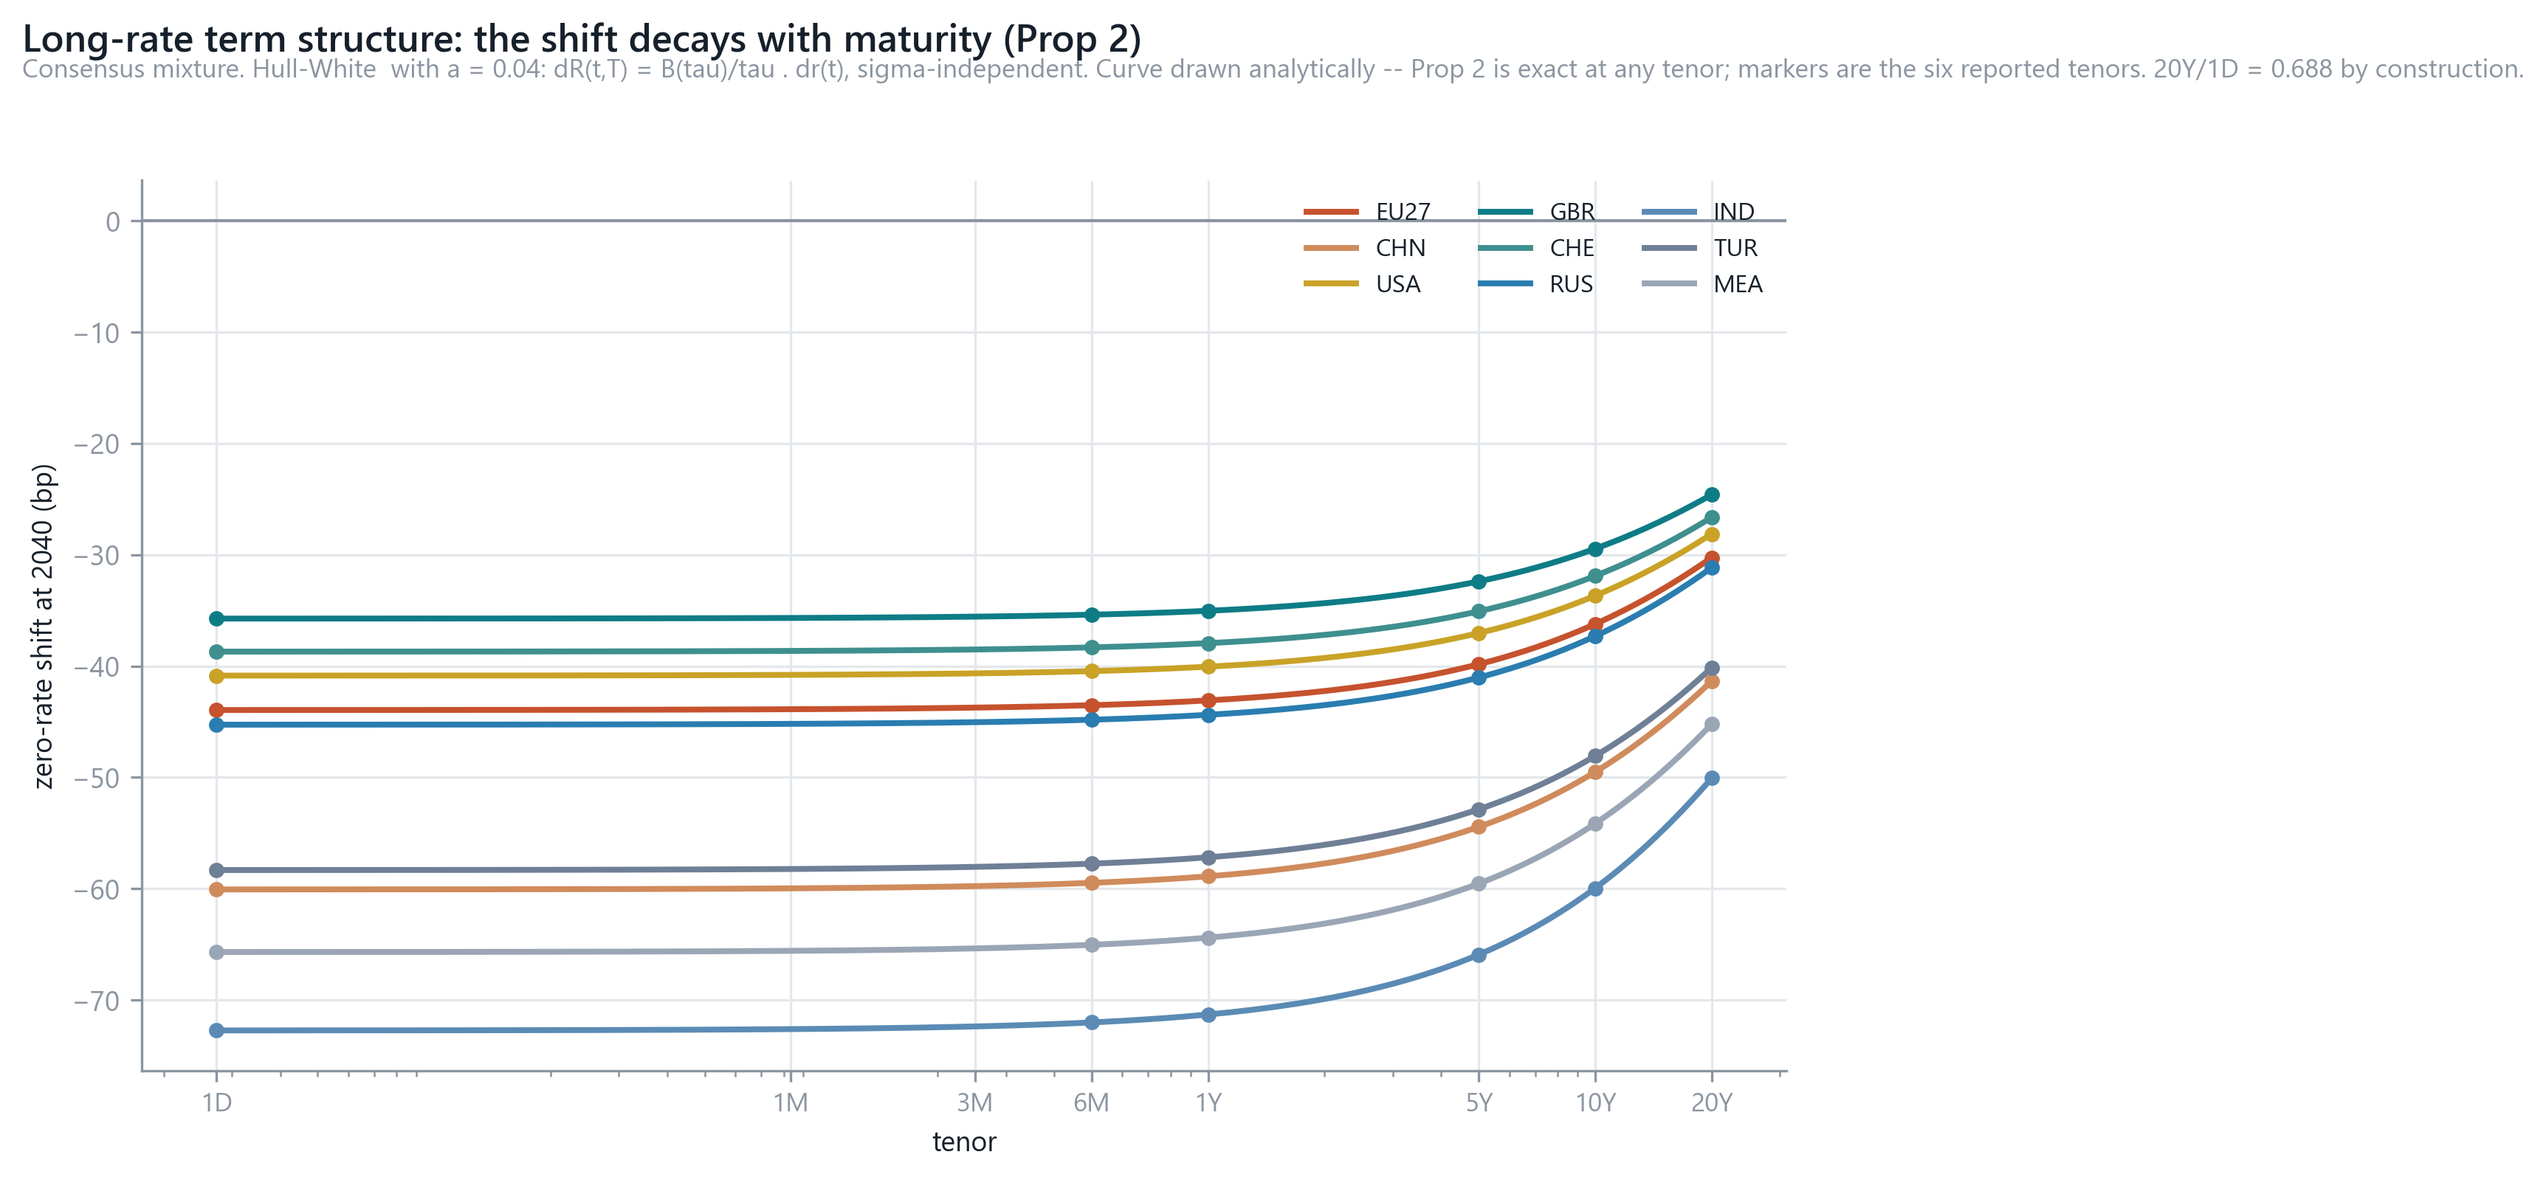
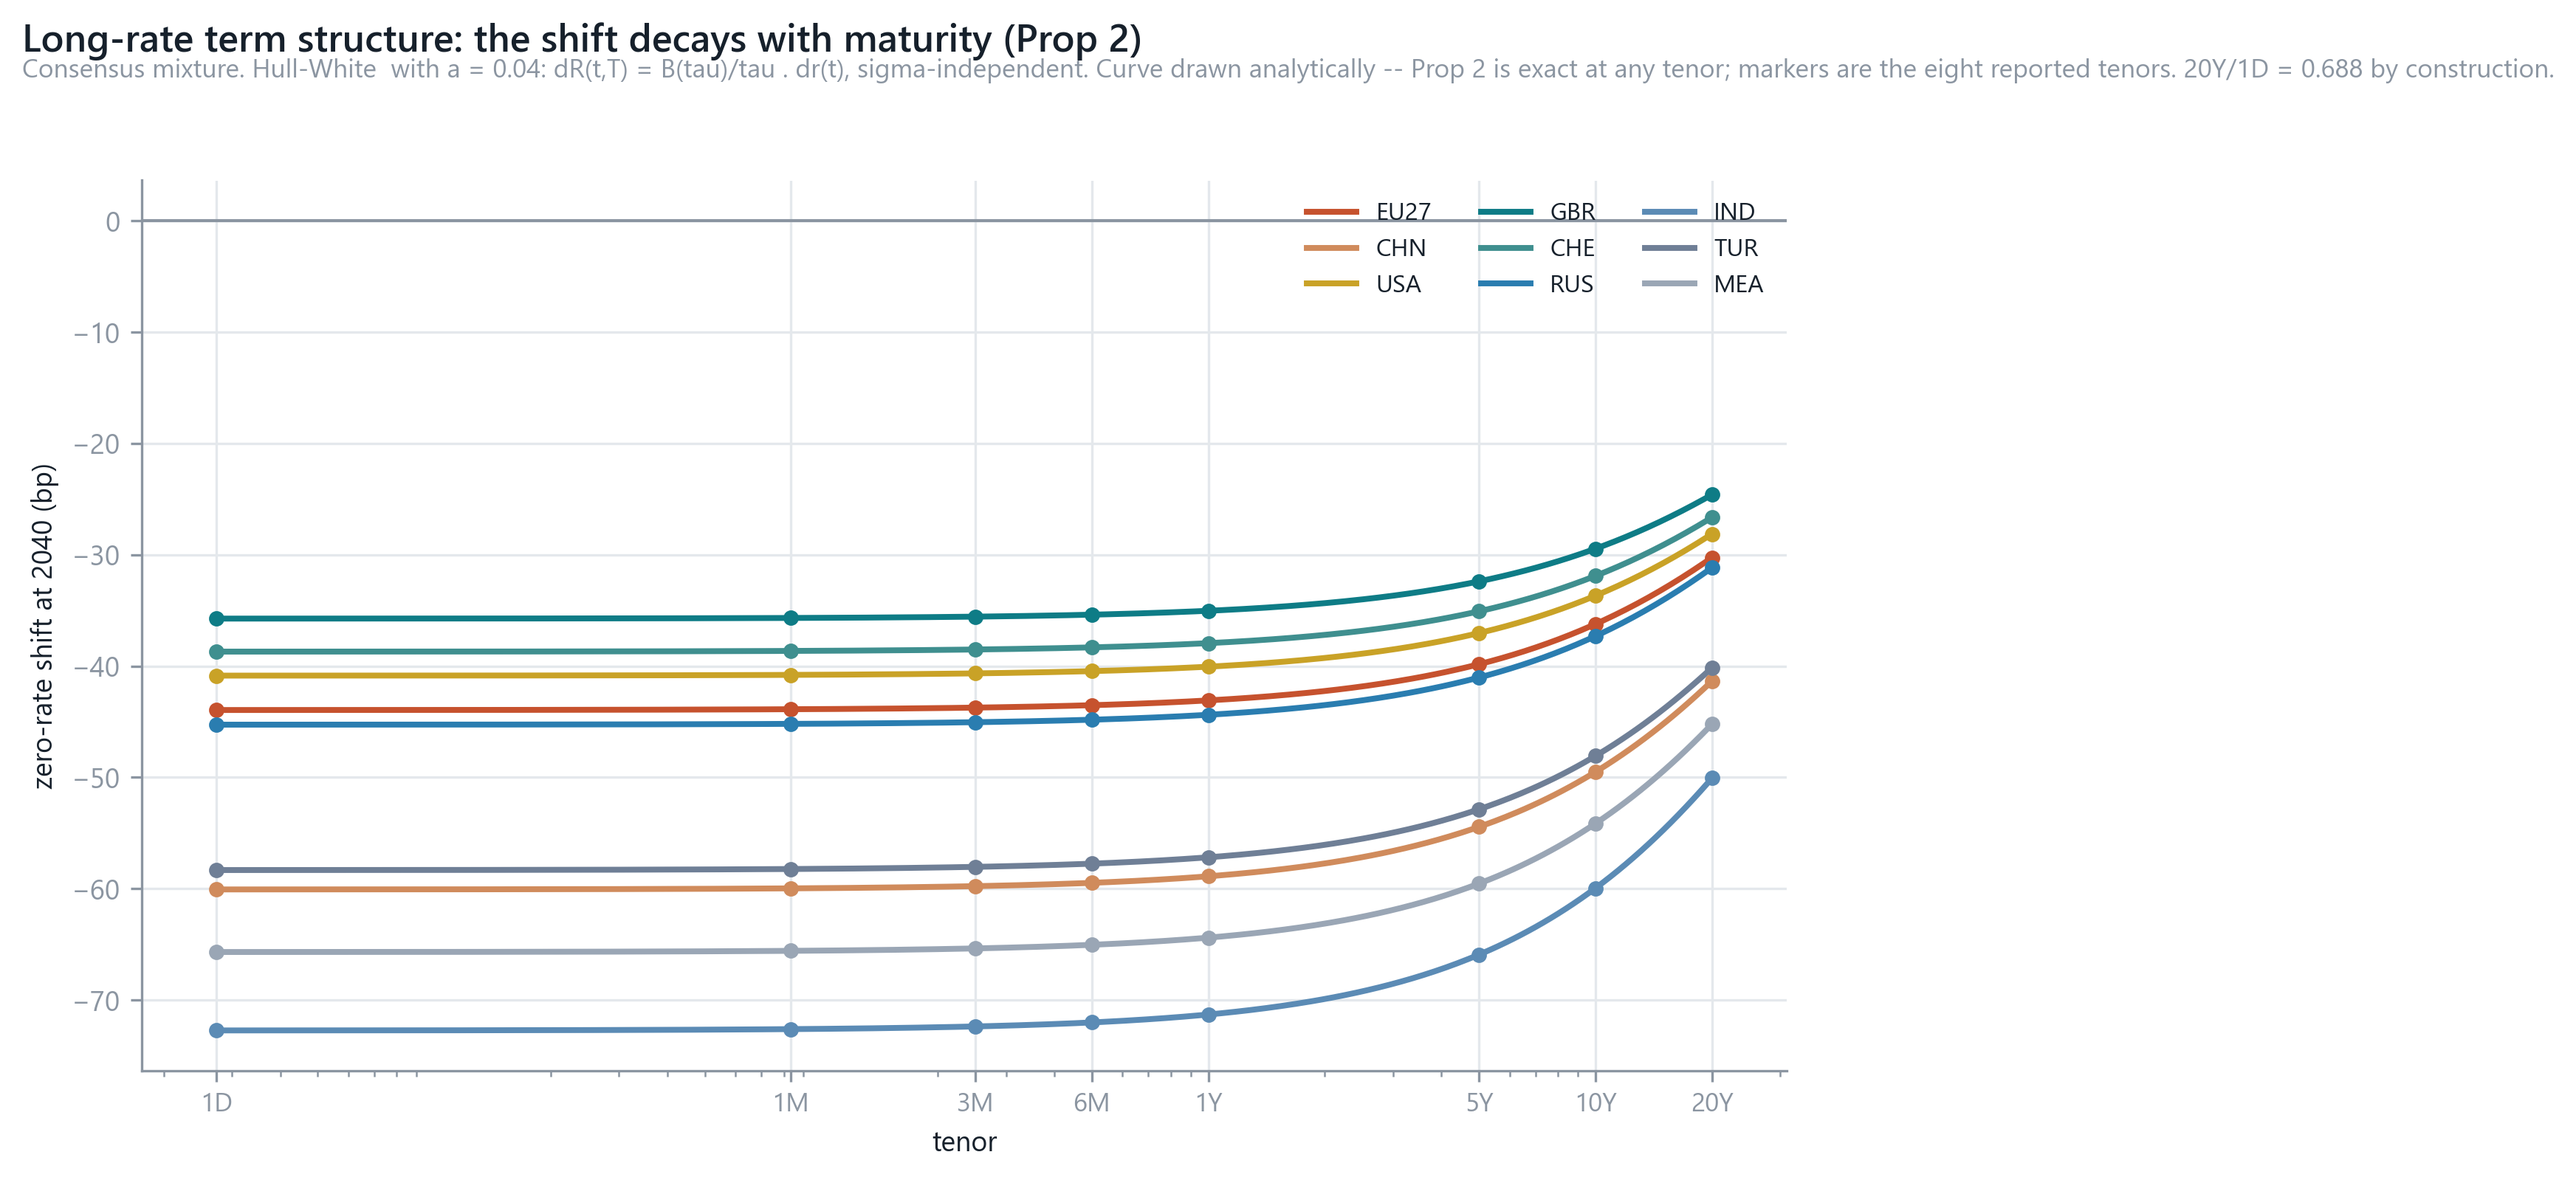
Report 1M and 3M tenors rather than only drawing through them
fig10 drew a continuous curve between 1D and 6M but marked only the tabulated
tenors, so the four-month stretch had no plotted points.  The obvious fix was to
add dots in the plotting script, but that would have put two values in a figure
that exist in no result table and no gate -- every other dot in the project
traces to a committed CSV.

So the tenors are added to the pipeline instead.  RATE_TENORS gains 1M and 3M,
the term-structure outputs carry them, and the figure marks all eight.  The
values are now as well-founded as the other six and can be gated like them.

They confirm what the curve already implied rather than revealing anything new:
B(tau)/tau is 0.99995 at 1D, 0.99833 at 1M, 0.99502 at 3M and 0.99007 at 6M, so
the four short-end markers sit within half a per cent of one another.  Nothing
happens to the climate rate shift before a year.

All suites re-run after the regeneration: 532 chapter checks, 94 extension
gates, 9 FX gates, transition core unchanged at 5.6e-17 pp.

(cherry picked from commit 4683351428d1f11f1cc74718b37fbf79a91126f8)

diff --git a/tools/make_figures.py b/tools/make_figures.py
@@ -465,8 +465,8 @@ def fig_term_structure():
     half a figure.  The chapter gives the same fact as a number (1.04x across
     the four priors), and it is gated.
     """
-    ten = ["1D", "6M", "1Y", "5Y", "10Y", "20Y"]
-    tau = [1/365, 0.5, 1, 5, 10, 20]
+    ten = ["1D", "1M", "3M", "6M", "1Y", "5Y", "10Y", "20Y"]
+    tau = [1 / 365, 1 / 12, 0.25, 0.5, 1, 5, 10, 20]
     cols = [WARM, "#d08b5c", "#c9a227", TEAL, "#3f8f8f", COOL, "#5b8bb5",
             "#6f7f96", "#9aa6b5"]
     d = mix("rate_term_structure", HEAD, idx=(0, 1))[H].unstack()
@@ -488,12 +488,9 @@ def fig_term_structure():
         ax.plot(tau, [d.loc[r, t] for t in ten], color=c, ls="none",
                 marker="o", ms=4.0, zorder=4)
     ax.axhline(0, color=MUTED, lw=1)
-    # 1M and 3M are tick marks only, not markers: the curve is exact there but
-    # those tenors are not tabulated, and they break up a stretch of the log
-    # axis that is otherwise 2.3 decades wide with no reference point in it.
     ax.set_xscale("log")
-    ax.set_xticks([1 / 365, 1 / 12, 0.25, 0.5, 1, 5, 10, 20])
-    ax.set_xticklabels(["1D", "1M", "3M", "6M", "1Y", "5Y", "10Y", "20Y"])
+    ax.set_xticks(tau)
+    ax.set_xticklabels(ten)
     ax.tick_params(axis="x", labelsize=8.5)
     ax.set_xlabel("tenor")
     ax.set_ylabel("zero-rate shift at 2040 (bp)")
@@ -504,7 +501,7 @@ def fig_term_structure():
     fig.text(0.012, 1.005, "Consensus mixture. Hull-White  with a = 0.04: "
              "dR(t,T) = B(tau)/tau . dr(t), sigma-independent. "
              "Curve drawn analytically -- Prop 2 is exact at any tenor; "
-             "markers are the six reported tenors. 20Y/1D = 0.688 by construction.",
+             "markers are the eight reported tenors. 20Y/1D = 0.688 by construction.",
              fontsize=8.5, color=MUTED, ha="left")
     fig.tight_layout()
     fig.savefig(os.path.join(FIG, "fig10_rate_term_structure.png"), dpi=300,

diff --git a/bkmn/run_extensions.py b/bkmn/run_extensions.py
@@ -35,7 +35,8 @@ ROOT = os.path.dirname(os.path.dirname(os.path.abspath(__file__)))
 # which this module imports, so the two orchestrators cannot diverge.
 
 # Rate tenors reported, mirroring the paper's Table 11 (Deposit 1D/6M, Swap 1Y..20Y).
-RATE_TENORS = {"1D": 1 / 365, "6M": 0.5, "1Y": 1.0, "5Y": 5.0, "10Y": 10.0, "20Y": 20.0}
+RATE_TENORS = {"1D": 1 / 365, "1M": 1 / 12, "3M": 0.25, "6M": 0.5,
+               "1Y": 1.0, "5Y": 5.0, "10Y": 10.0, "20Y": 20.0}
 
 
 def chain(m, sc, scenario, M, scope, vl, xce_over=None, dT_over=None,
